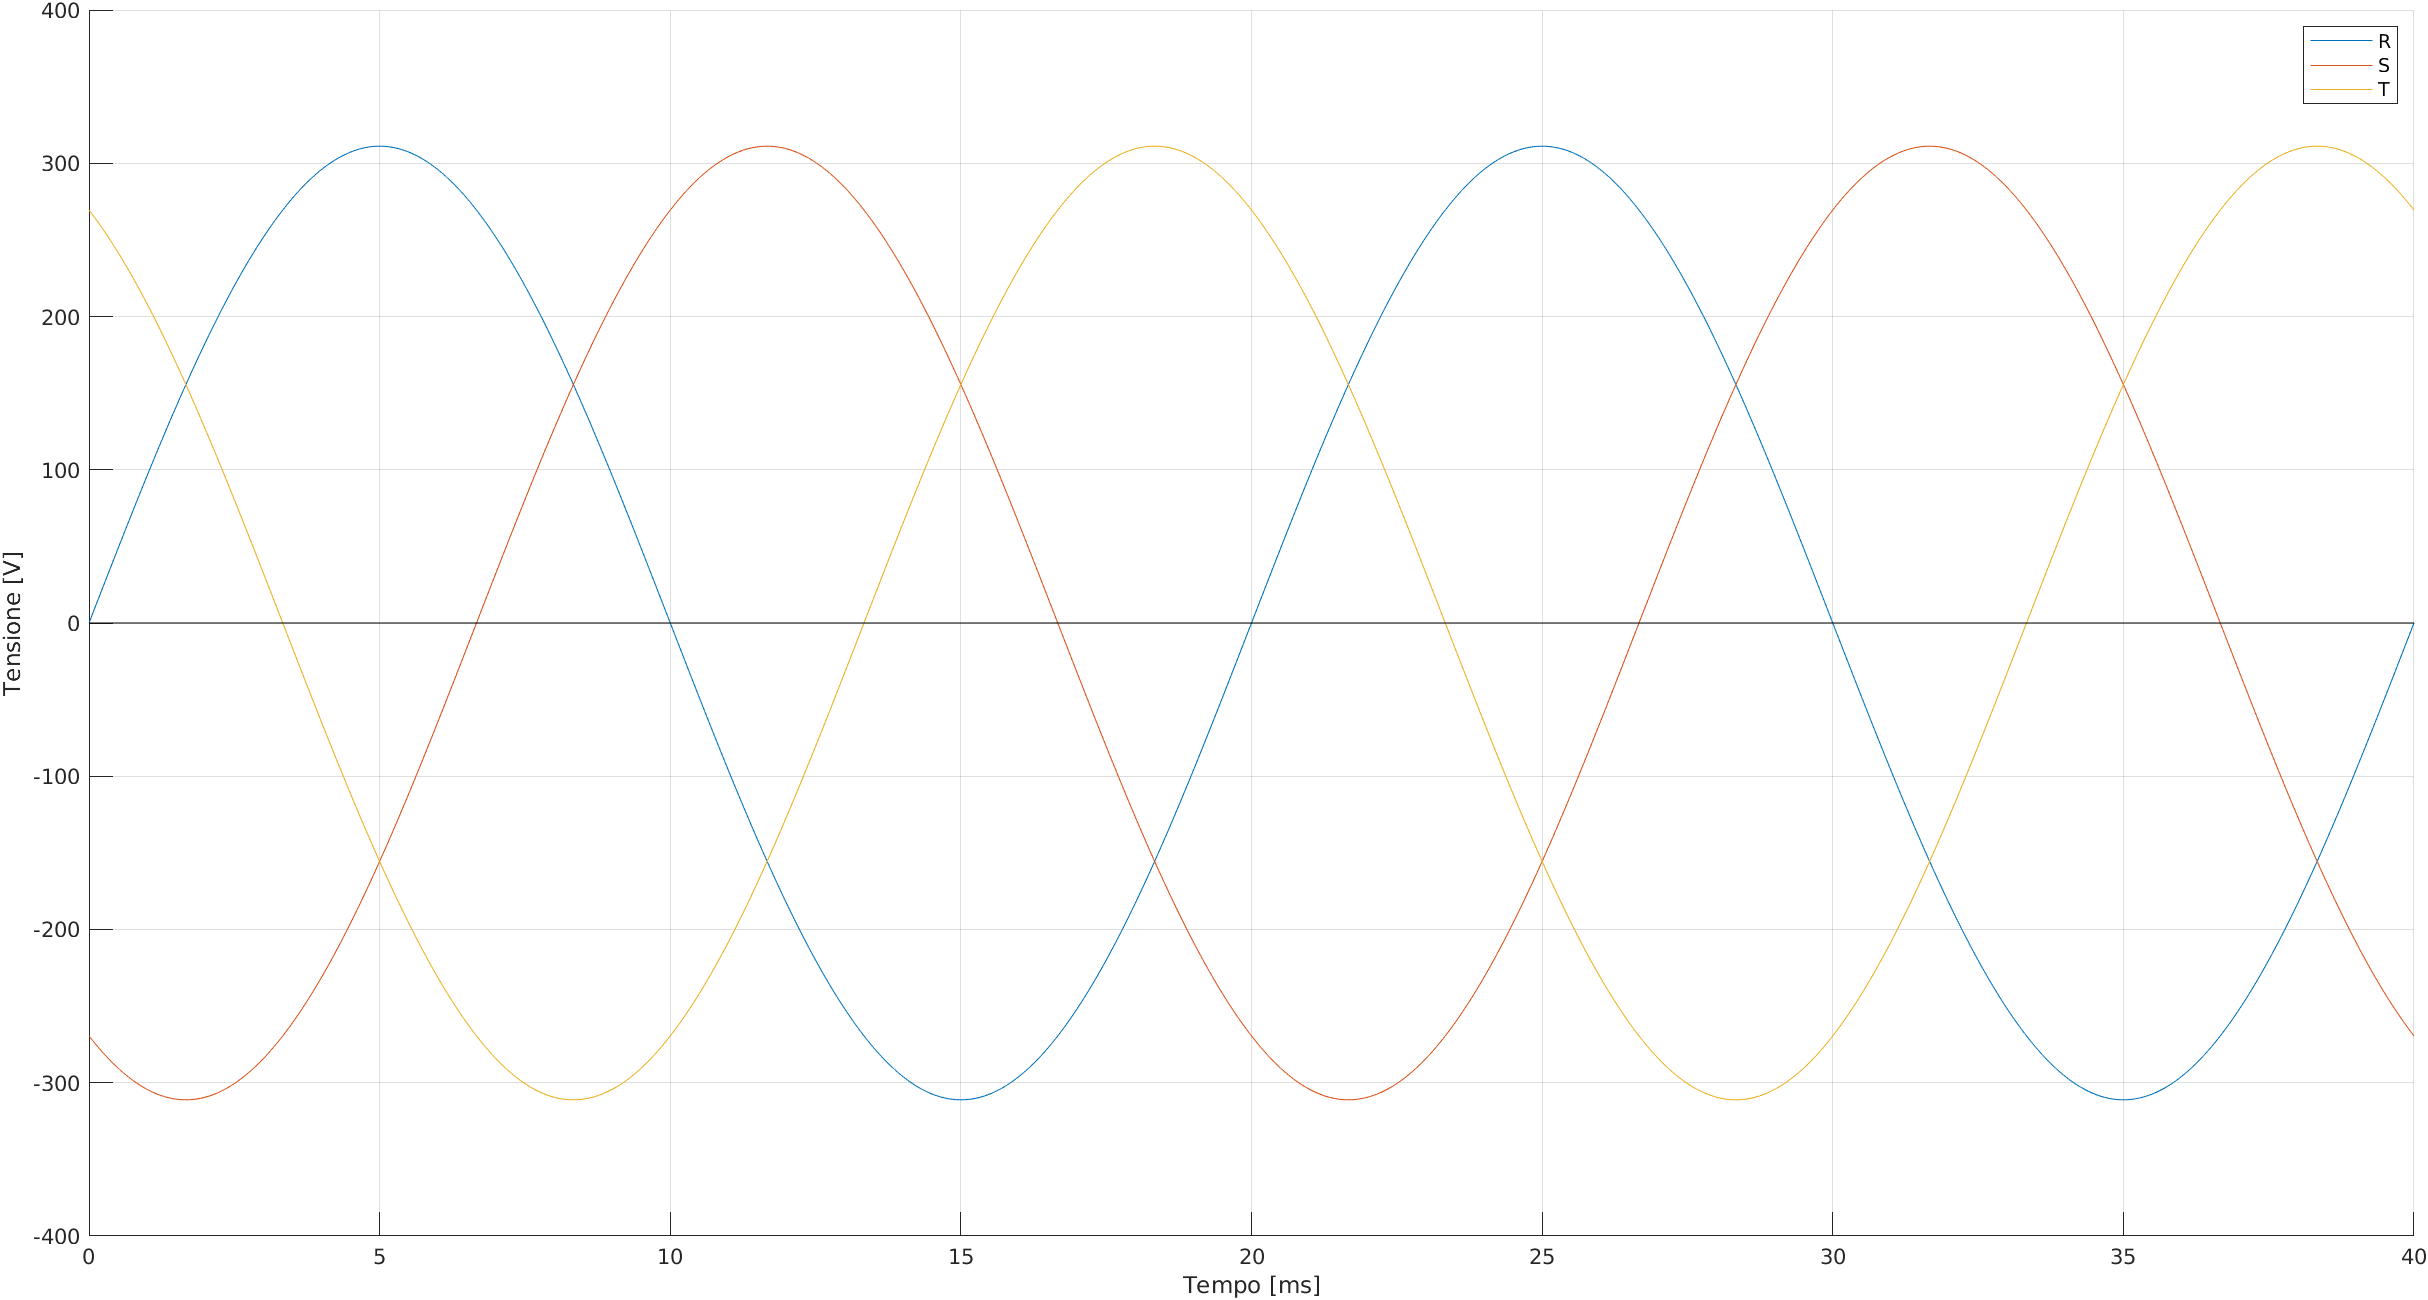
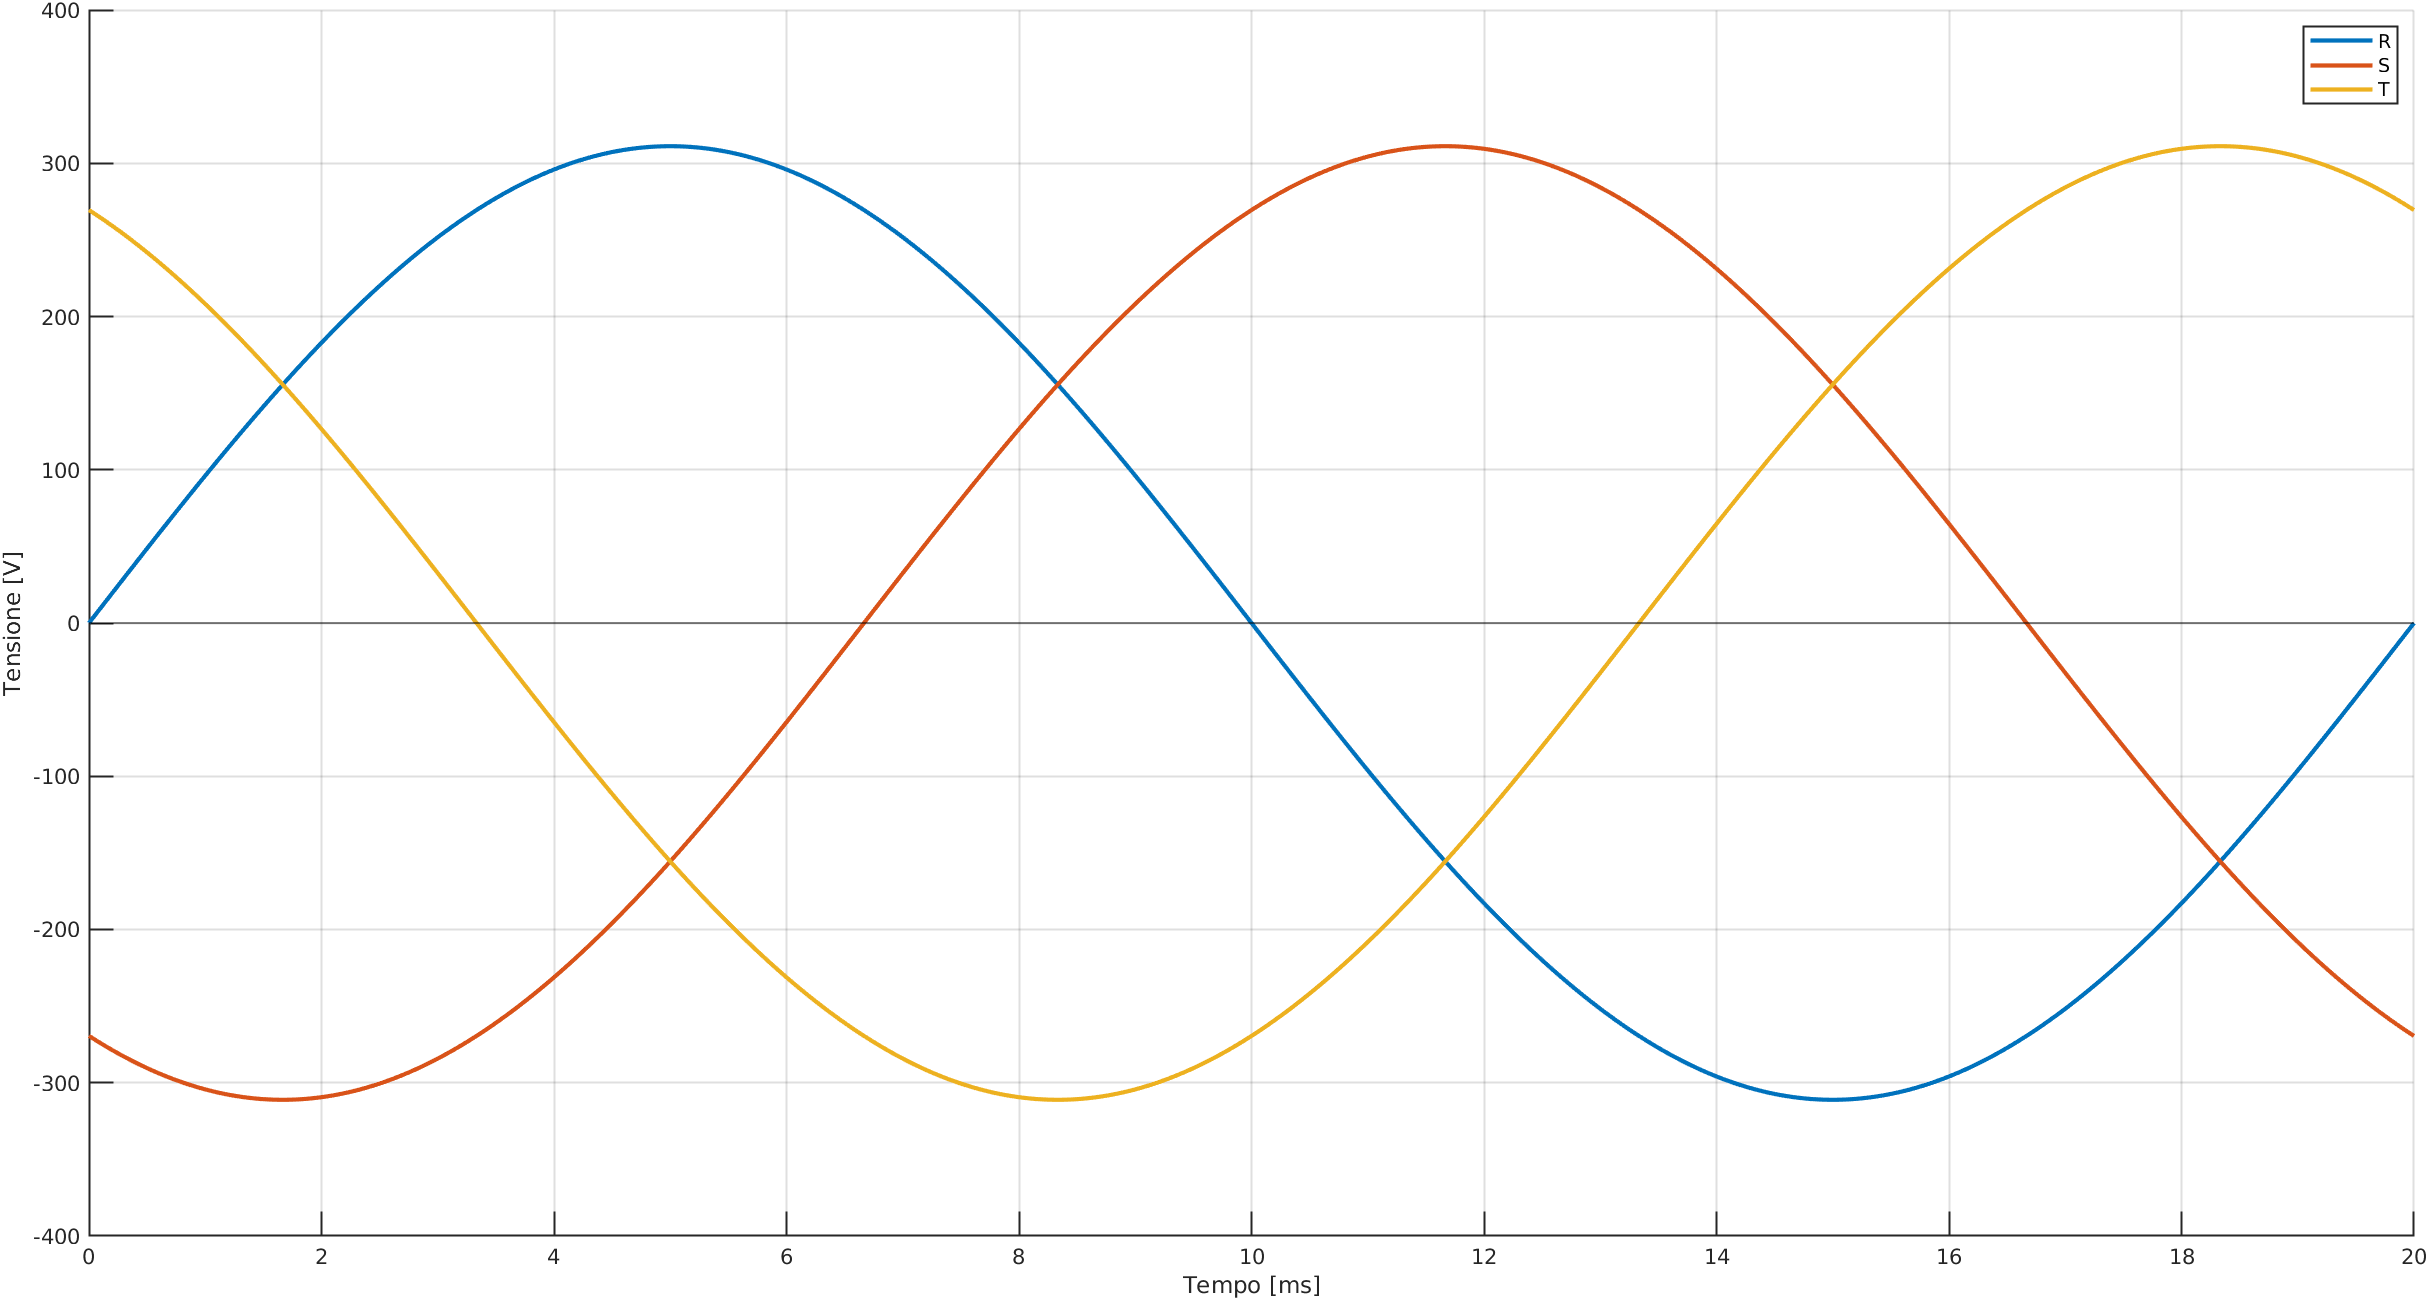
Modificate dimensioni linee plot

diff --git a/Relazione.tex b/Relazione.tex
@@ -98,6 +98,14 @@ Il trasformatore trifase è a flusso vincolato dato che sono presenti
 solo tre colonne, questa proprietà non è individuabile dallo schema in cui 
 è presente un banco trimonofase a flusso libero.
 
+In seguito si riporta una foto del banco di prova:
+\begin{figure}[H]
+ \centering
+ \includegraphics[keepaspectratio=true,width=1\linewidth]{img/circuito_reale.png}
+ \caption{Circuito realizzato per la misura}
+ \label{fig:circuito_reale}
+\end{figure}
+
 \section{Richiami teorici}
 La rete trifase fornisce una terna di tensioni sinusoidali ad una frequenza di
 $\SI{50}{\hertz}$ sfasate tra loro con un angolo di \ang{120}
@@ -120,19 +128,28 @@ condizioni:
  \item \(I_G \geq I_{GT}\) la corrente di gate sia maggiore di 
  un certo valore di soglia (trigger)
 \end{itemize}
-
 È possibile dividere i tiristori in due gruppi, superiore ed inferiore. 
 
 Quelli del gruppo superiore \((T1,T2,T3)\) hanno gli anodi collegati tra loro
-e con il carico. Ai catodi invece, i tiristori vedono le 
-tensioni stellate rispetto al centro stella formatosi al secondario
-del trasformatore.
+e con il carico. Ai catodi invece, sono collegate le tre fasi e i tiristori 
+vedono le rispettive tensioni stellate rispetto al centro stella formatosi al 
+secondario del trasformatore.
 
 Per quanto riguarda i tiristori del gruppo inferiore \((T1\_,T2\_,T3\_)\) invece
 si presenta la situazione opposta, i catodi sono in comune tra essi e con il carico,
 gli anodi sono connessi all'alimentazione e quindi ai catodi dei tiristori del gruppo precedente.
 
-
+Trascurando la caduta di tensione sui tiristori si può assumere che, tramite un
+opportuno pilotaggio dei componenti, si può fornire al carico la tensione
+concatenata tra due fasi opportunamente scelte a valle del trasformatore.
+Si possono rappresentare le tensioni concatenate in un periodo nel seguente modo:
+ \begin{figure}[H]
+ \centering
+ \includegraphics[keepaspectratio=true,width=0.95\linewidth]
+ {img/concatenate_carico.png}
+ \caption{Andamento delle tensioni concatenate a valle del trasformatore}
+ \label{fig:concatenate}
+\end{figure}
 
 Sia \(\alpha\) l'angolo d'impulso dei componenti, riferito rispetto al valore nullo
 delle tensioni concatenate

diff --git a/sinusoidi.m b/sinusoidi.m
@@ -2,7 +2,7 @@
 %
 clear; close all; clc; %precaricamento programma
 %PARAMETRI RETE
-periodi = 2; %Definisci il numero di periodi da rappresentare
+periodi = 1; %Definisci il numero di periodi da rappresentare
 f = 50;  %Frequenza di rete
 Vrms = 220; %Valore efficace tensione stellata
 
@@ -11,6 +11,8 @@ V1n = 400; %Tensioni nominali primario e secondario
 V2n = 42;
 N = V2n/V1n; %Rapporto di trasformazione definito al contrario per comodità
 
+%PARAMETRI PLOT
+plot_width = 2;
 
 %CALCOLO
 t = linspace(0,periodi/f,1000);
@@ -21,23 +23,40 @@ V2 = Vp*sin(omega*t-2*pi/3);
 V3 = Vp*sin(omega*t-4*pi/3);
 figure();
 hold on; grid on;
+set(gca,'LineWidth',plot_width-1);
 x = t*1000; %Ai fini della rappresentazione dei tempi
-plot(x,V1,x,V2,x,V3);
+q = plot(x,V1,x,V2,x,V3);
 plot([0 x(end)],[0 0],'Color','k');
 legend('R','S','T');
 ylabel('Tensione [V]');
 xlabel('Tempo [ms]');
-%xlim([0 x(end)]);
 
-figure(); %Plot concatenate raddrizzate in uscita dal trasformatore
+for n = 1:3
+q(n).LineWidth = plot_width;
+end
+%xlim([0 x(end)]);
+%% Part 2
+%close all;
+figure(2); %Plot concatenate raddrizzate in uscita dal trasformatore
 hold on; grid on;
+set(gca,'LineWidth',plot_width-1);
 V12 = N*(V1-V2);
 V13 = N*(V1-V3);
 V23 = N*(V2-V3);
+
+V21 = N*(V2-V1);
+V31 = N*(V3-V1);
+V32 = N*(V3-V2);
 %x = x*omega/1000/pi;
-plot(x,V12,x,V23,x,V13);
+
+p = plot(x,V12,x,V13,x,V23,x,V21,x,V31,x,V32);
 %ylim([49 57]);
 ylabel('Tensione [V]');
 xlabel('Tempo [ms]');
+plot([0 x(end)],[0 0],'Color','k');
+legend('V_{12}','V_{13}','V_{23}','V_{21}','V_{31}','V_{32}');
 
-
+%Costrutto per modificare lo spessore delle linee
+for n = 1:6
+p(n).LineWidth = plot_width;
+end
